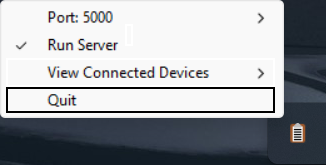
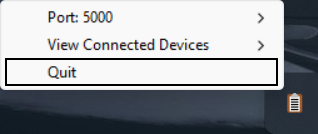
Update README for new release

diff --git a/README.md b/README.md
@@ -2,22 +2,22 @@
 
 # Common Clipboard
 
-Welcome to Common Clipboard, an application written with Python to create a shared clipboard experience between iOS and
-Windows devices connected to a common network. This shared clipboard allows for cleaner and faster data transfer between
-the two platforms, where data copied on one device can almost instantly be pasted in the other. This project is intended
-to be similar to Apple's [Universal Clipboard](https://support.apple.com/en-us/HT209460) that creates a shared clipboard
-between Apple products. Common Clipboard interfaces directly with the native clipboard of the device it is running on
-and all the data transfer happens in the background, meaning the only commands you need to know are Copy and Paste!
+Welcome to Common Clipboard, an application written for Windows and iOS to create a shared clipboard experience between
+several devices connected to a common network. This shared clipboard allows for cleaner and faster data transfer, where
+data copied on one device can almost instantly be pasted in the other. This project is intended to be similar to
+Apple's [Universal Clipboard](https://support.apple.com/en-us/HT209460) that creates a shared clipboard between Apple
+products. Common Clipboard interfaces directly with the native clipboard of the device it is running on, and all the
+data
+transfer happens in the background, meaning the only commands you need to know are Copy and Paste!
 
 > **Note:** Currently only works for the transfer of unicode text and images and may have a short (1-3 second) delay
-> depending on internet speed and size of copied data
+> depending on internet speed and size of copied data on iOS devices due to the limitations of Apple Shortcuts
 
 ## Usage
 
-> **Note:** Common Clipboard requires at least one Windows device on the local network to function (more information
-> below)
-
 ### iOS/iPadOS
+
+> **Note:** Common Clipboard requires at least one Windows device on the local network to function
 
 1. Ensure the Common Clipboard shortcut is running on the same port as the Windows server
     * The port number can be changed in the code of the shortcut
@@ -25,7 +25,7 @@ and all the data transfer happens in the background, meaning the only commands y
 2. Run the Common Clipboard shortcut on all desired iOS/iPadOS devices on the local network
     * The shortcut will automatically connect to the network and begin sharing clipboard data
     * You may be repeatedly asked for permission to send data after copying. This is a security feature by Apple and
-    * cannot be turned off. Simply click "Always Allow" when prompted
+      cannot be turned off. Simply click "Always Allow" when prompted
 
 3. Close the Shortcuts app (press the home button or swipe up)
     * **DO NOT** quit the app by swiping it away from the menu. This will stop the shortcut
@@ -36,31 +36,26 @@ and all the data transfer happens in the background, meaning the only commands y
 ### Windows
 
 1. Launch the Common Clipboard application on all desired Windows devices on the local network
-    * If a server is running on the local network, the application will automatically connect and begin sharing
-      clipboard data
+    * The application will automatically connect to the network and begin sharing clipboard data
 
-2. Run the server on only **ONE** device on the local network from the system tray
-    * The server **MUST** be running in order for clipboard data transfer to occur between devices
-
-   ![Running Server Demo](static/run_server.gif)
-
-3. Edit the port number from the system tray to match the port number of the server (if necessary). The port number can
+2. Edit the port number from the system tray to match the port number of the server (if necessary). The port number can
    also be changed while the server is running
     * Changing the port number is likely only necessary if multiple users are using Common Clipboard on the same network
 
    ![Editing Port Demo](static/edit_port.gif)
 
-4. To view whether the current device is connected to the Common Clipboard server, hover over the icon in the system
-   tray
+3. To view the status of the current device, hover over the icon in the system tray
 
-   ![Viewing if Connected to Server Demo](static/connection_status.png)
+   ![Connected demo](static/connected.png)
+   ![Not Connected demo](static/not_connected.png)
+   ![Server Running demo](static/server_running.png)
 
-5. On the device running the server, the names and local IPv4 addresses of all connected devices can be viewed from the
+4. On the device running the server, the names and local IPv4 addresses of all connected devices can be viewed from the
    system tray
 
    ![Viewing Connected Devices Demo](static/view_connected.png)
 
-6. To quit the Common Clipboard application, use the "Quit" option in the system tray
+5. To quit the Common Clipboard application, use the "Quit" option in the system tray
 
    ![Quitting Demo](static/quit.png)
 
@@ -68,7 +63,8 @@ and all the data transfer happens in the background, meaning the only commands y
 
 ### Windows
 
-Download the latest version of the Common Clipboard application from [releases](https://github.com/cmdvmd/common-clipboard/releases)
+Download the latest version of the Common Clipboard application
+from [releases](https://github.com/cmdvmd/common-clipboard/releases)
 
 ### iOS
 
